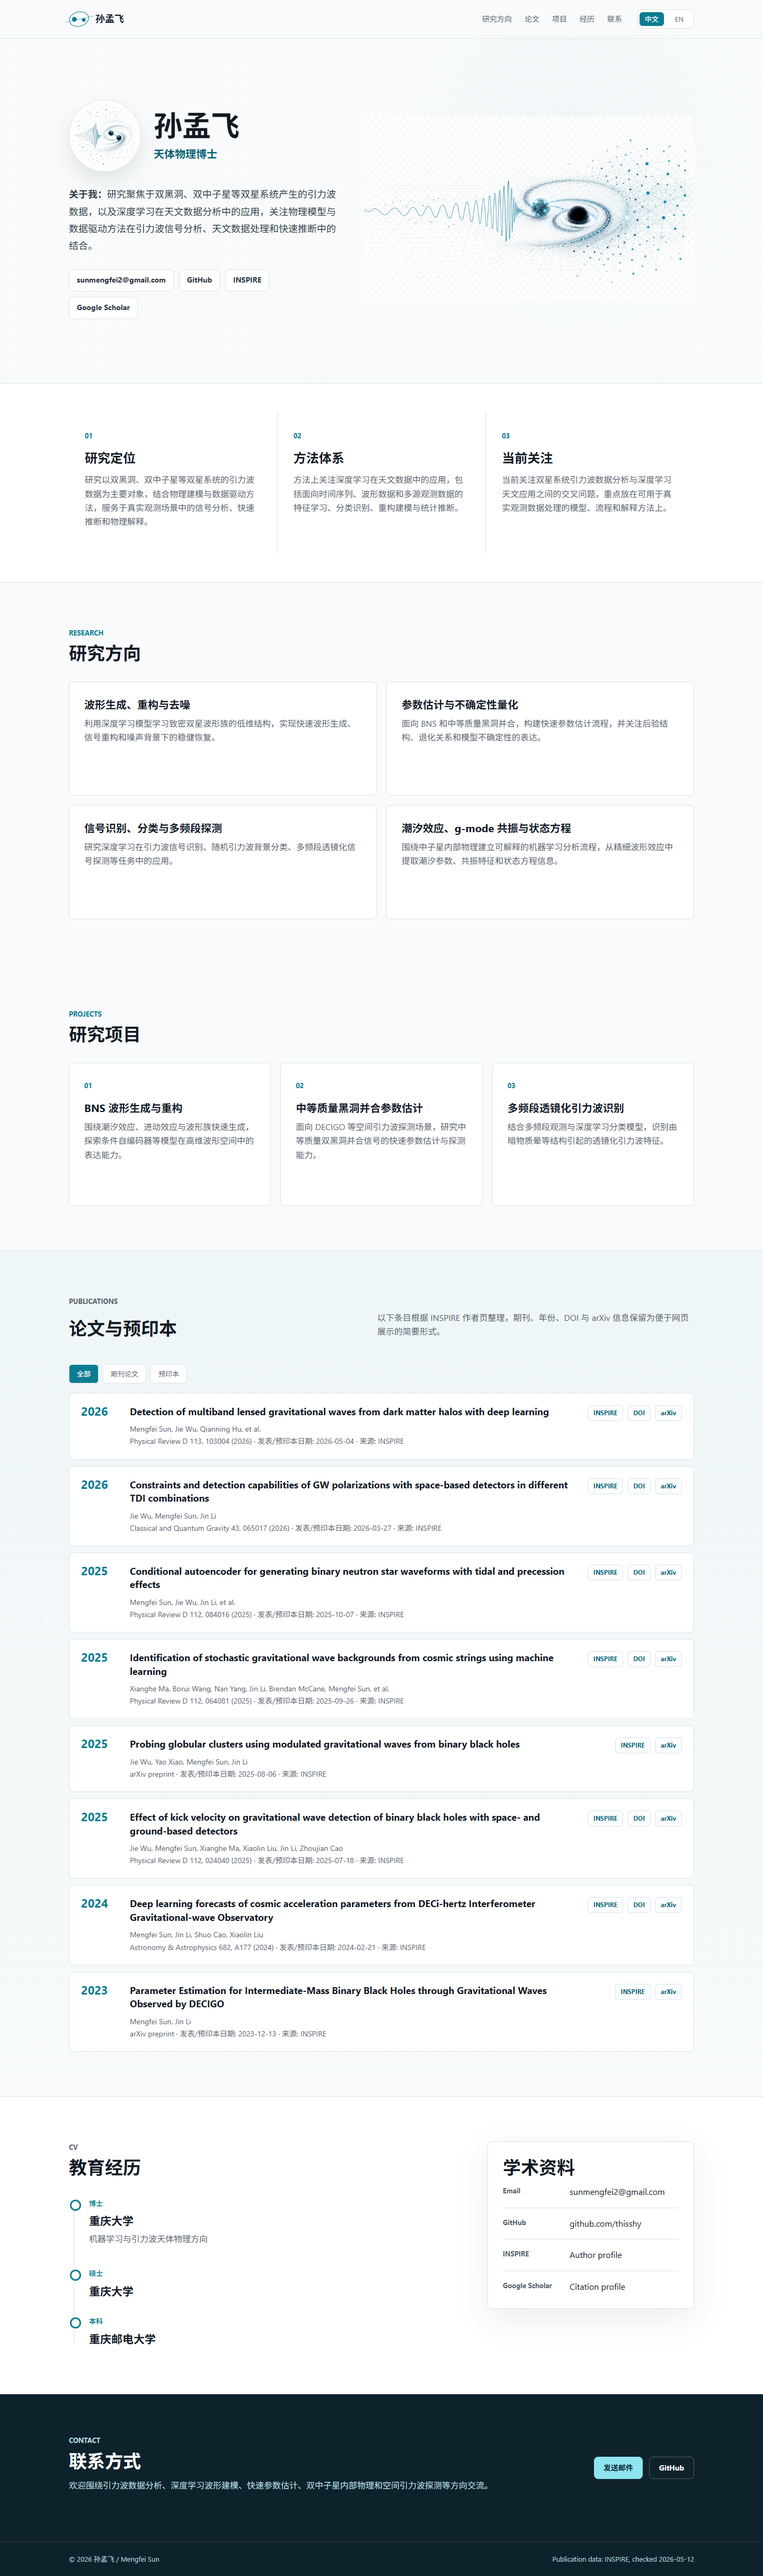
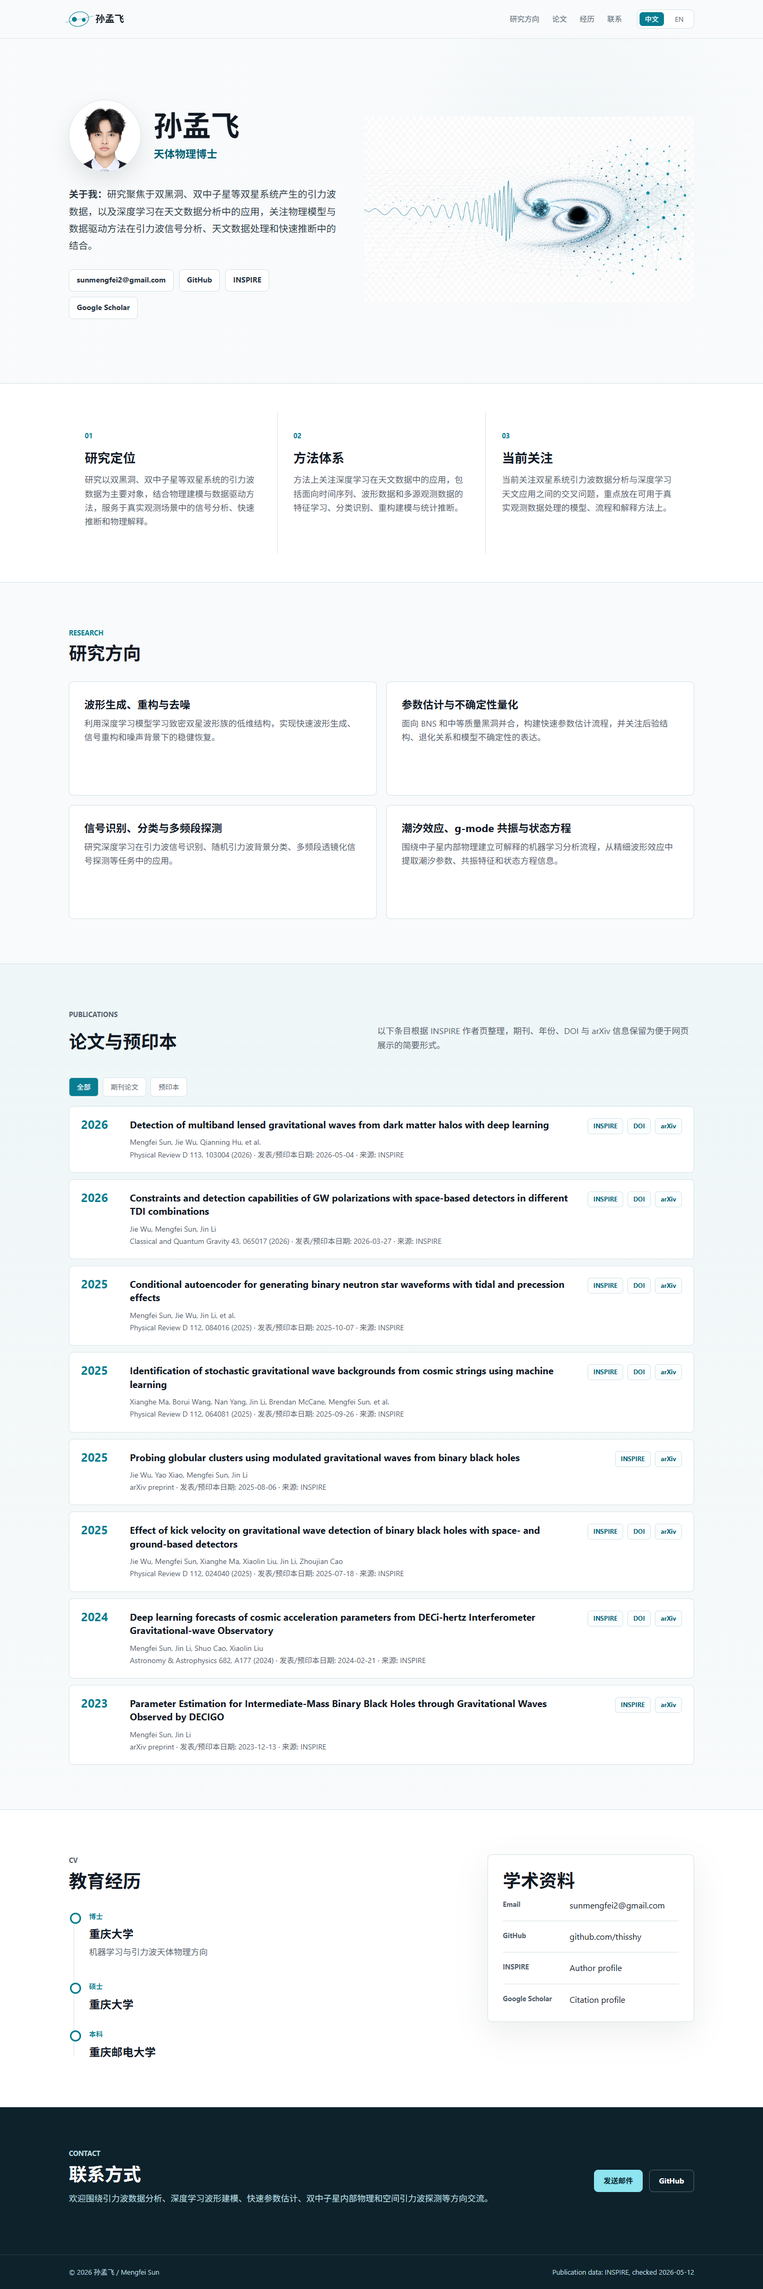
1

diff --git a/index.html b/index.html
@@ -44,7 +44,7 @@
         <div class="hero-grid">
           <div class="hero-copy">
             <div class="identity-line">
-              <img src="assets/img/gw-avatar.png" alt="Gravitational-wave avatar placeholder" />
+              <img src="assets/img/profile-photo.jpg" alt="孙孟飞证件照" />
               <div>
                 <h1>
                   <span data-lang="zh">孙孟飞</span>

diff --git a/assets/css/styles.css b/assets/css/styles.css
@@ -248,6 +248,7 @@ button {
   width: 136px;
   height: 136px;
   object-fit: cover;
+  object-position: center top;
   border-radius: 50%;
   border: 1px solid var(--line);
   box-shadow: 0 18px 38px rgba(17, 25, 35, 0.1);
